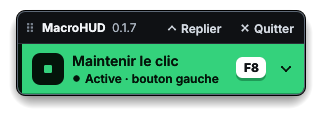
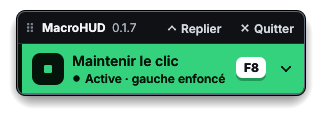
Correctif 1 du HUD : ligne active comme la maquette, liseré expliqué
Ligne active « Active · gauche enfoncé » (droit, milieu de même), comme
la maquette (D-16). Textes d'exemple des rendus au tutoiement et au
décompte du moteur ; rendus régénérés.

Le liseré autour de la fenêtre ne vient pas du HUD (nouveau test : les
coins hors de la forme restent transparents) : egui-winit demande sous
Windows l'ombre de fenêtre sans bordure. Correctif à faire côté
programmation, décrit au journal.

Claude-Session: https://claude.ai/code/session_01EL3qoSq97Aizk2nRsoxSnk

Changed region(s): [[0.4037, 0.6102, 0.7143, 0.7373]]

diff --git a/src/hud/render.rs b/src/hud/render.rs
@@ -430,6 +430,27 @@ fn renders_the_views_and_the_situations() {
     set_open_macro(None);
 }
 
+/// In the window (no shadow), the HUD paints nothing outside its rounded shape: the corner pixels
+/// stay fully transparent. A line or a darkening around the window comes from the system (D-16).
+#[test]
+fn nothing_is_painted_outside_the_rounded_shape() {
+    let mut renderer = Renderer::new();
+    for view in mockup_views() {
+        let size = view.size();
+        let image = renderer.render(size, 1.0, Color32::TRANSPARENT, &mut |ui| {
+            set_open_macro(view.open);
+            paint(ui, &view.state, false);
+        });
+        let (w, h) = (image.width - 1, image.height - 1);
+        for (x, y) in [(0, 0), (w, 0), (0, h), (w, h), (1, 1), (w - 1, 1), (1, h - 1), (w - 1, h - 1)] {
+            assert_eq!(image.pixel(x, y).a(), 0, "vue {}, pixel ({x}, {y})", view.key);
+        }
+        // The black ring of the mock-up is the outermost pixel row, opaque.
+        assert_eq!(image.pixel(image.width / 2, 0), Color32::BLACK, "vue {}", view.key);
+    }
+    set_open_macro(None);
+}
+
 // Interaction: real pointer events through egui ------------------------------------------------
 
 fn press(pos: Pos2, pressed: bool) -> Event {
@@ -578,7 +599,7 @@ fn a_long_hotkey_is_cut_not_the_panel() {
 fn folded_messages_show_under_the_pill() {
     let state = with(|s| {
         s.collapsed = true;
-        s.message = Some(Message::new(MessageLevel::Warning, "Sortez la souris du HUD avant d'appuyer sur F8."));
+        s.message = Some(Message::new(MessageLevel::Warning, "Sors la souris du HUD avant d'appuyer sur F8."));
     });
     set_open_macro(None);
     let size = window_size(&state);
@@ -756,12 +777,11 @@ fn comparison_sheets() {
     // The situations of the contract, then the two cases the engine explains with a message.
     let mut situations = samples();
     situations.push((
-        "après « Activer » : délai de 3 s",
+        "après « Activer » : décompte de 3 s",
         with(|s| {
-            s.macros[0].status = MacroStatus::Active;
             s.message = Some(Message::new(
                 MessageLevel::Info,
-                "Le bouton gauche sera enfoncé dans 3 secondes : placez la souris là où il doit agir.",
+                "Activation dans 3 s : place la souris là où le clic doit rester enfoncé.",
             ));
         }),
     ));
@@ -769,7 +789,7 @@ fn comparison_sheets() {
         "F8 avec la souris sur le HUD replié",
         with(|s| {
             s.collapsed = true;
-            s.message = Some(Message::new(MessageLevel::Warning, "Sortez la souris du HUD avant d'appuyer sur F8."));
+            s.message = Some(Message::new(MessageLevel::Warning, "Sors la souris du HUD avant d'appuyer sur F8."));
         }),
     ));
     let tiles: Vec<Tile> = situations
@@ -783,7 +803,7 @@ fn comparison_sheets() {
         })
         .collect();
     let idea = "Chaque situation de contract::samples(), telle que le HUD la dessine, puis les deux cas que le \
-                moteur explique par un message : le délai de 3 s après « Activer », et F8 refusé avec la souris \
+                moteur explique par un message : le décompte de 3 s après « Activer », et F8 refusé avec la souris \
                 sur le HUD (ici replié).";
     let image = sheet(&mut renderer, "+", "Toutes les situations du contrat", idea, &tiles);
     image.save_png(&dir.join("situations-egui.png"));

diff --git a/src/hud/mod.rs b/src/hud/mod.rs
@@ -200,14 +200,13 @@ fn chip_width(main: Option<&MacroView>) -> f32 {
     (width + 24.0 + 4.0 + 1.0).ceil()
 }
 
-/// « bouton gauche », « bouton droit », « bouton milieu »: the selector's word, and short enough
-/// for the state line (« bouton du milieu » would be cut).
-fn held_button(view: &MacroView) -> &'static str {
+/// The held button in one word, the selector's: « gauche », « droit », « milieu ».
+fn button_word(view: &MacroView) -> &'static str {
     let MacroOptions::HoldClick { button } = view.options;
     match button {
-        MouseButton::Left => "bouton gauche",
-        MouseButton::Right => "bouton droit",
-        MouseButton::Middle => "bouton milieu",
+        MouseButton::Left => "gauche",
+        MouseButton::Right => "droit",
+        MouseButton::Middle => "milieu",
     }
 }
 
@@ -218,16 +217,18 @@ fn kind_icon(view: &MacroView) -> Icon {
     }
 }
 
-/// Icon, words and weight of the state line under a macro's name. « Active » does not say
-/// « enfoncé »: from the HUD, the button is pressed 3 s after « Activer » (the message says so).
+/// Icon, words and weight of the state line under a macro's name, as on the mock-up (D-16):
+/// « Arrêtée · bouton gauche », « Active · gauche enfoncé ». During the 3 s after « Activer » the
+/// engine keeps the macro « arrêtée » and counts down in a message, so « enfoncé » is always true.
 fn state_line(view: &MacroView) -> (Option<Icon>, String, f32) {
     if !view.available {
         return (None, "À venir".to_owned(), s::REGULAR);
     }
+    let button = button_word(view);
     match view.status {
         MacroStatus::Unavailable(_) => (Some(Icon::Warning), "Indisponible".to_owned(), s::SEMIBOLD),
-        MacroStatus::Active => (Some(Icon::Dot), format!("Active · {}", held_button(view)), s::SEMIBOLD),
-        MacroStatus::Stopped => (Some(Icon::Stop), format!("Arrêtée · {}", held_button(view)), s::REGULAR),
+        MacroStatus::Active => (Some(Icon::Dot), format!("Active · {button} enfoncé"), s::SEMIBOLD),
+        MacroStatus::Stopped => (Some(Icon::Stop), format!("Arrêtée · bouton {button}"), s::REGULAR),
     }
 }
 

diff --git a/docs/JOURNAL.md b/docs/JOURNAL.md
@@ -21,6 +21,56 @@ Gabarit :
 
 ---
 
+## 2026-11-20 · Correctif 1 du HUD : ligne active comme la maquette, origine du liseré
+
+- **Session** : visuel
+- **Branche et commit** : `claude/gifted-turing-0izrcw`, avancée rapide sur `main` (`8baf82f`), puis
+  commit « Correctif 1 du HUD : ligne active comme la maquette, liseré expliqué », puis le marqueur vide
+  `[ETAPE-FINIE visuel-correctif-1]`.
+- **Objectif** : P1.9, points 1 et 2 de D-16 ; le point 3 (raccourci refusé) attend la branche
+  « programmation » (`[ETAPE-FINIE programmation-correctif-2]`).
+- **Réalisé** :
+  1. **Ligne active** : « Active · gauche enfoncé » (« droit enfoncé », « milieu enfoncé »), comme la
+     maquette ; la ligne arrêtée reste « Arrêtée · bouton gauche ». Textes d'exemple des rendus
+     alignés sur le moteur : décompte « Activation dans 3 s : place la souris… » avec la ligne
+     « Arrêtée », « Sors la souris du HUD… ».
+  2. **Liseré autour de la fenêtre : il ne vient pas du HUD.** Nouveau test : dans la fenêtre (sans
+     ombre), les pixels des coins hors de la forme arrondie restent entièrement transparents ; la seule
+     bordure dessinée est l'anneau noir de la maquette. Cause : egui-winit 0.37 demande d'office à
+     winit, sous Windows, l'« ombre de fenêtre sans bordure » (`with_undecorated_shadow(true)` pour
+     toute fenêtre sans décorations, `egui-winit/src/lib.rs`) ; Windows dessine alors autour de la
+     fenêtre son ombre, son liseré d'1 px (Windows 11) et ses propres coins arrondis, qui assombrissent
+     le fond au coin, et winit réserve une bande d'1 px en haut (documenté par winit). `src/hud/` ne
+     peut pas l'éteindre : egui ne donne pas accès à la fenêtre native. **À faire par la session
+     « programmation »** (hors de mon périmètre) :
+     - `Cargo.toml`, dépendances Windows : `winit = "0.30"` (déjà dans `Cargo.lock` : 0.30.13, celle
+       d'eframe) ;
+     - `src/app.rs`, dans `HudApp::new` :
+
+       ```rust
+       #[cfg(windows)]
+       if let Some(window) = cc.winit_window() {
+           use winit::platform::windows::{CornerPreference, WindowExtWindows as _};
+           window.set_undecorated_shadow(false); // no system shadow, no 1 px band at the top
+           window.set_border_color(None); // Windows 11: no 1 px border
+           window.set_corner_preference(CornerPreference::DoNotRound); // the HUD rounds itself
+       }
+       ```
+
+     La transparence (coins du HUD) passe par un autre réglage et n'en dépend pas.
+- **Décisions** : aucune (retour à D-12 et D-16 pour la ligne active).
+- **Vérifications** : `cargo fmt --check` ; `cargo clippy --all-targets --locked -- -D warnings` sous
+  Linux et pour `x86_64-pc-windows-msvc` : sans remarque ; `cargo test --locked` : 101 tests verts, dont
+  12 du HUD (le nouveau sur les coins ; les lignes d'état tiennent sans « … » pour les trois boutons).
+  Rendus régénérés dans `maquettes/rendu-egui/` : deux exécutions identiques au bit près ; hors de la
+  ligne active et des textes changés, écarts d'arrondi de 1/255 sur quelques pixels.
+- **Non vérifié sur le PC** : la ligne active (R18) ; le liseré (R17) reste tant que le correctif
+  ci-dessus n'est pas fait.
+- **Problèmes et dette** : point 3 de P1.9 (encadré « Raccourci refusé ») en attente du contrat.
+- **Prochaine étape** : point 3 dès que la branche « programmation » porte le contrat complété.
+
+---
+
 ## 2026-11-20 · Tests sur le PC et première livraison : MacroHUD 0.1.10
 
 - **Session** : maître
